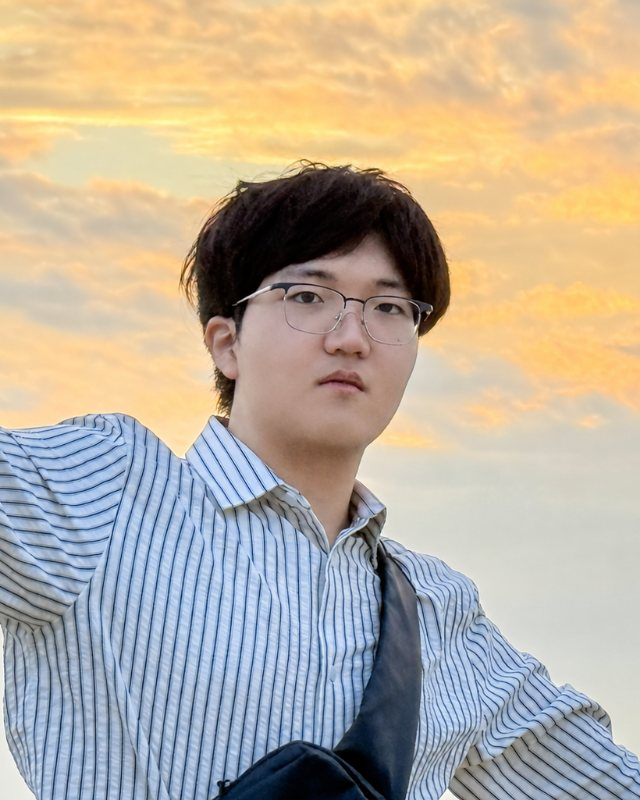
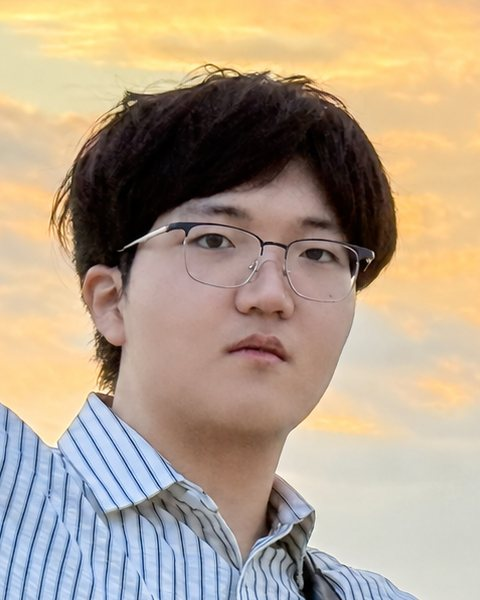
Crop homepage portrait to head and shoulders

diff --git a/_includes/hero.html b/_includes/hero.html
@@ -13,6 +13,6 @@
     </ul>
   </div>
   <figure class="hero-portrait">
-    <img src="{{ '/images/portrait.jpg' | relative_url }}" alt="Portrait of Hanwen Zhang" width="640" height="800" fetchpriority="high">
+    <img src="{{ '/images/portrait.jpg' | relative_url }}" alt="Portrait of Hanwen Zhang" width="480" height="600" fetchpriority="high">
   </figure>
 </header>
